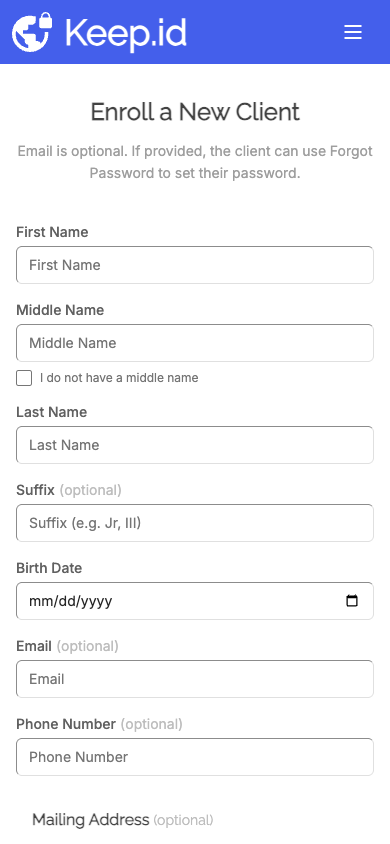
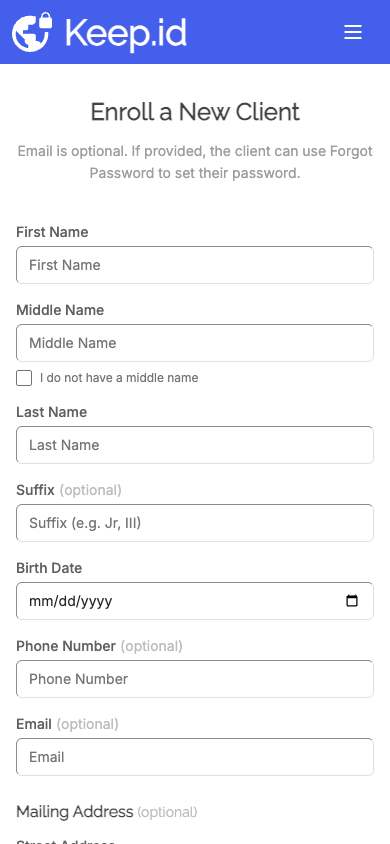
Polish enrollment form layout

diff --git a/src/components/SignUp/EnrollClient.tsx b/src/components/SignUp/EnrollClient.tsx
@@ -616,23 +616,43 @@ export default function EnrollClientPage(): JSX.Element {
                 </div>
               </div>
 
-              <div>
-                <label htmlFor="birthDate" className="tw-block tw-text-sm tw-font-medium tw-text-gray-700 tw-mb-1">
-                  Birth Date
-                </label>
-                <input
-                  id="birthDate"
-                  name="birthDate"
-                  type="date"
-                  className={inputClassName}
-                  value={values.birthDate}
-                  onChange={onChange}
-                  onBlur={(e) => validateField(e.target.name, e.target.value)}
-                  required
-                />
-                {fieldErrors.birthDate && (
-                  <p className="tw-text-red-600 tw-text-xs tw-mt-1">{fieldErrors.birthDate}</p>
-                )}
+              <div className="tw-grid tw-grid-cols-1 md:tw-grid-cols-2 tw-gap-4">
+                <div>
+                  <label htmlFor="birthDate" className="tw-block tw-text-sm tw-font-medium tw-text-gray-700 tw-mb-1">
+                    Birth Date
+                  </label>
+                  <input
+                    id="birthDate"
+                    name="birthDate"
+                    type="date"
+                    className={inputClassName}
+                    value={values.birthDate}
+                    onChange={onChange}
+                    onBlur={(e) => validateField(e.target.name, e.target.value)}
+                    required
+                  />
+                  {fieldErrors.birthDate && (
+                    <p className="tw-text-red-600 tw-text-xs tw-mt-1">{fieldErrors.birthDate}</p>
+                  )}
+                </div>
+                <div>
+                  <label htmlFor="phonenumber" className="tw-block tw-text-sm tw-font-medium tw-text-gray-700 tw-mb-1">
+                    Phone Number <span className="tw-text-gray-400 tw-font-normal">(optional)</span>
+                  </label>
+                  <input
+                    id="phonenumber"
+                    name="phonenumber"
+                    type="tel"
+                    placeholder="Phone Number"
+                    className={inputClassName}
+                    value={values.phonenumber}
+                    onChange={onChange}
+                    onBlur={(e) => validateField(e.target.name, e.target.value)}
+                  />
+                  {fieldErrors.phonenumber && (
+                    <p className="tw-text-red-600 tw-text-xs tw-mt-1">{fieldErrors.phonenumber}</p>
+                  )}
+                </div>
               </div>
 
               <div>
@@ -654,26 +674,7 @@ export default function EnrollClientPage(): JSX.Element {
                 )}
               </div>
 
-              <div>
-                <label htmlFor="phonenumber" className="tw-block tw-text-sm tw-font-medium tw-text-gray-700 tw-mb-1">
-                  Phone Number <span className="tw-text-gray-400 tw-font-normal">(optional)</span>
-                </label>
-                <input
-                  id="phonenumber"
-                  name="phonenumber"
-                  type="tel"
-                  placeholder="Phone Number"
-                  className={inputClassName}
-                  value={values.phonenumber}
-                  onChange={onChange}
-                  onBlur={(e) => validateField(e.target.name, e.target.value)}
-                />
-                {fieldErrors.phonenumber && (
-                  <p className="tw-text-red-600 tw-text-xs tw-mt-1">{fieldErrors.phonenumber}</p>
-                )}
-              </div>
-
-              <div className="tw-rounded-md tw-border tw-border-gray-200 tw-bg-white tw-p-4">
+              <div className="tw-pt-2">
                 <h3 className="tw-mb-3 tw-text-base tw-font-semibold tw-text-gray-800">
                   Mailing Address <span className="tw-text-sm tw-font-normal tw-text-gray-400">(optional)</span>
                 </h3>

diff --git a/src/components/Applications/ApplicationForm.tsx b/src/components/Applications/ApplicationForm.tsx
@@ -888,7 +888,21 @@ export default function ApplicationForm({
                         />
                         {enrollFieldErrors.birthDate && <small className="tw-text-red-600">{enrollFieldErrors.birthDate}</small>}
                       </Form.Group>
-                      <Form.Group controlId="newClientEmail">
+                      <Form.Group controlId="newClientPhone">
+                        <Form.Label>Phone (optional)</Form.Label>
+                        <Form.Control
+                          className={whoForInputClassName}
+                          name="phonenumber"
+                          value={enrollForm.phonenumber}
+                          onChange={handleEnrollFieldChange}
+                          onBlur={(e) => setEnrollFieldErrors((prev) => ({
+                            ...prev,
+                            phonenumber: validateEnrollField('phonenumber', e.target.value),
+                          }))}
+                        />
+                        {enrollFieldErrors.phonenumber && <small className="tw-text-red-600">{enrollFieldErrors.phonenumber}</small>}
+                      </Form.Group>
+                      <Form.Group controlId="newClientEmail" className="md:tw-col-span-2">
                         <Form.Label>Email (optional)</Form.Label>
                         <Form.Control
                           className={whoForInputClassName}
@@ -903,22 +917,8 @@ export default function ApplicationForm({
                         />
                         {enrollFieldErrors.email && <small className="tw-text-red-600">{enrollFieldErrors.email}</small>}
                       </Form.Group>
-                      <Form.Group controlId="newClientPhone" className="md:tw-col-span-2">
-                        <Form.Label>Phone (optional)</Form.Label>
-                        <Form.Control
-                          className={whoForInputClassName}
-                          name="phonenumber"
-                          value={enrollForm.phonenumber}
-                          onChange={handleEnrollFieldChange}
-                          onBlur={(e) => setEnrollFieldErrors((prev) => ({
-                            ...prev,
-                            phonenumber: validateEnrollField('phonenumber', e.target.value),
-                          }))}
-                        />
-                        {enrollFieldErrors.phonenumber && <small className="tw-text-red-600">{enrollFieldErrors.phonenumber}</small>}
-                      </Form.Group>
                     </div>
-                    <div className="tw-mt-4 tw-rounded-md tw-border tw-border-gray-200 tw-bg-white tw-p-4">
+                    <div className="tw-mt-4 tw-pt-1">
                       <h3 className="tw-mb-3 tw-text-base tw-font-semibold tw-text-gray-800">
                         Mailing Address <span className="tw-text-sm tw-font-normal tw-text-gray-500">(optional)</span>
                       </h3>